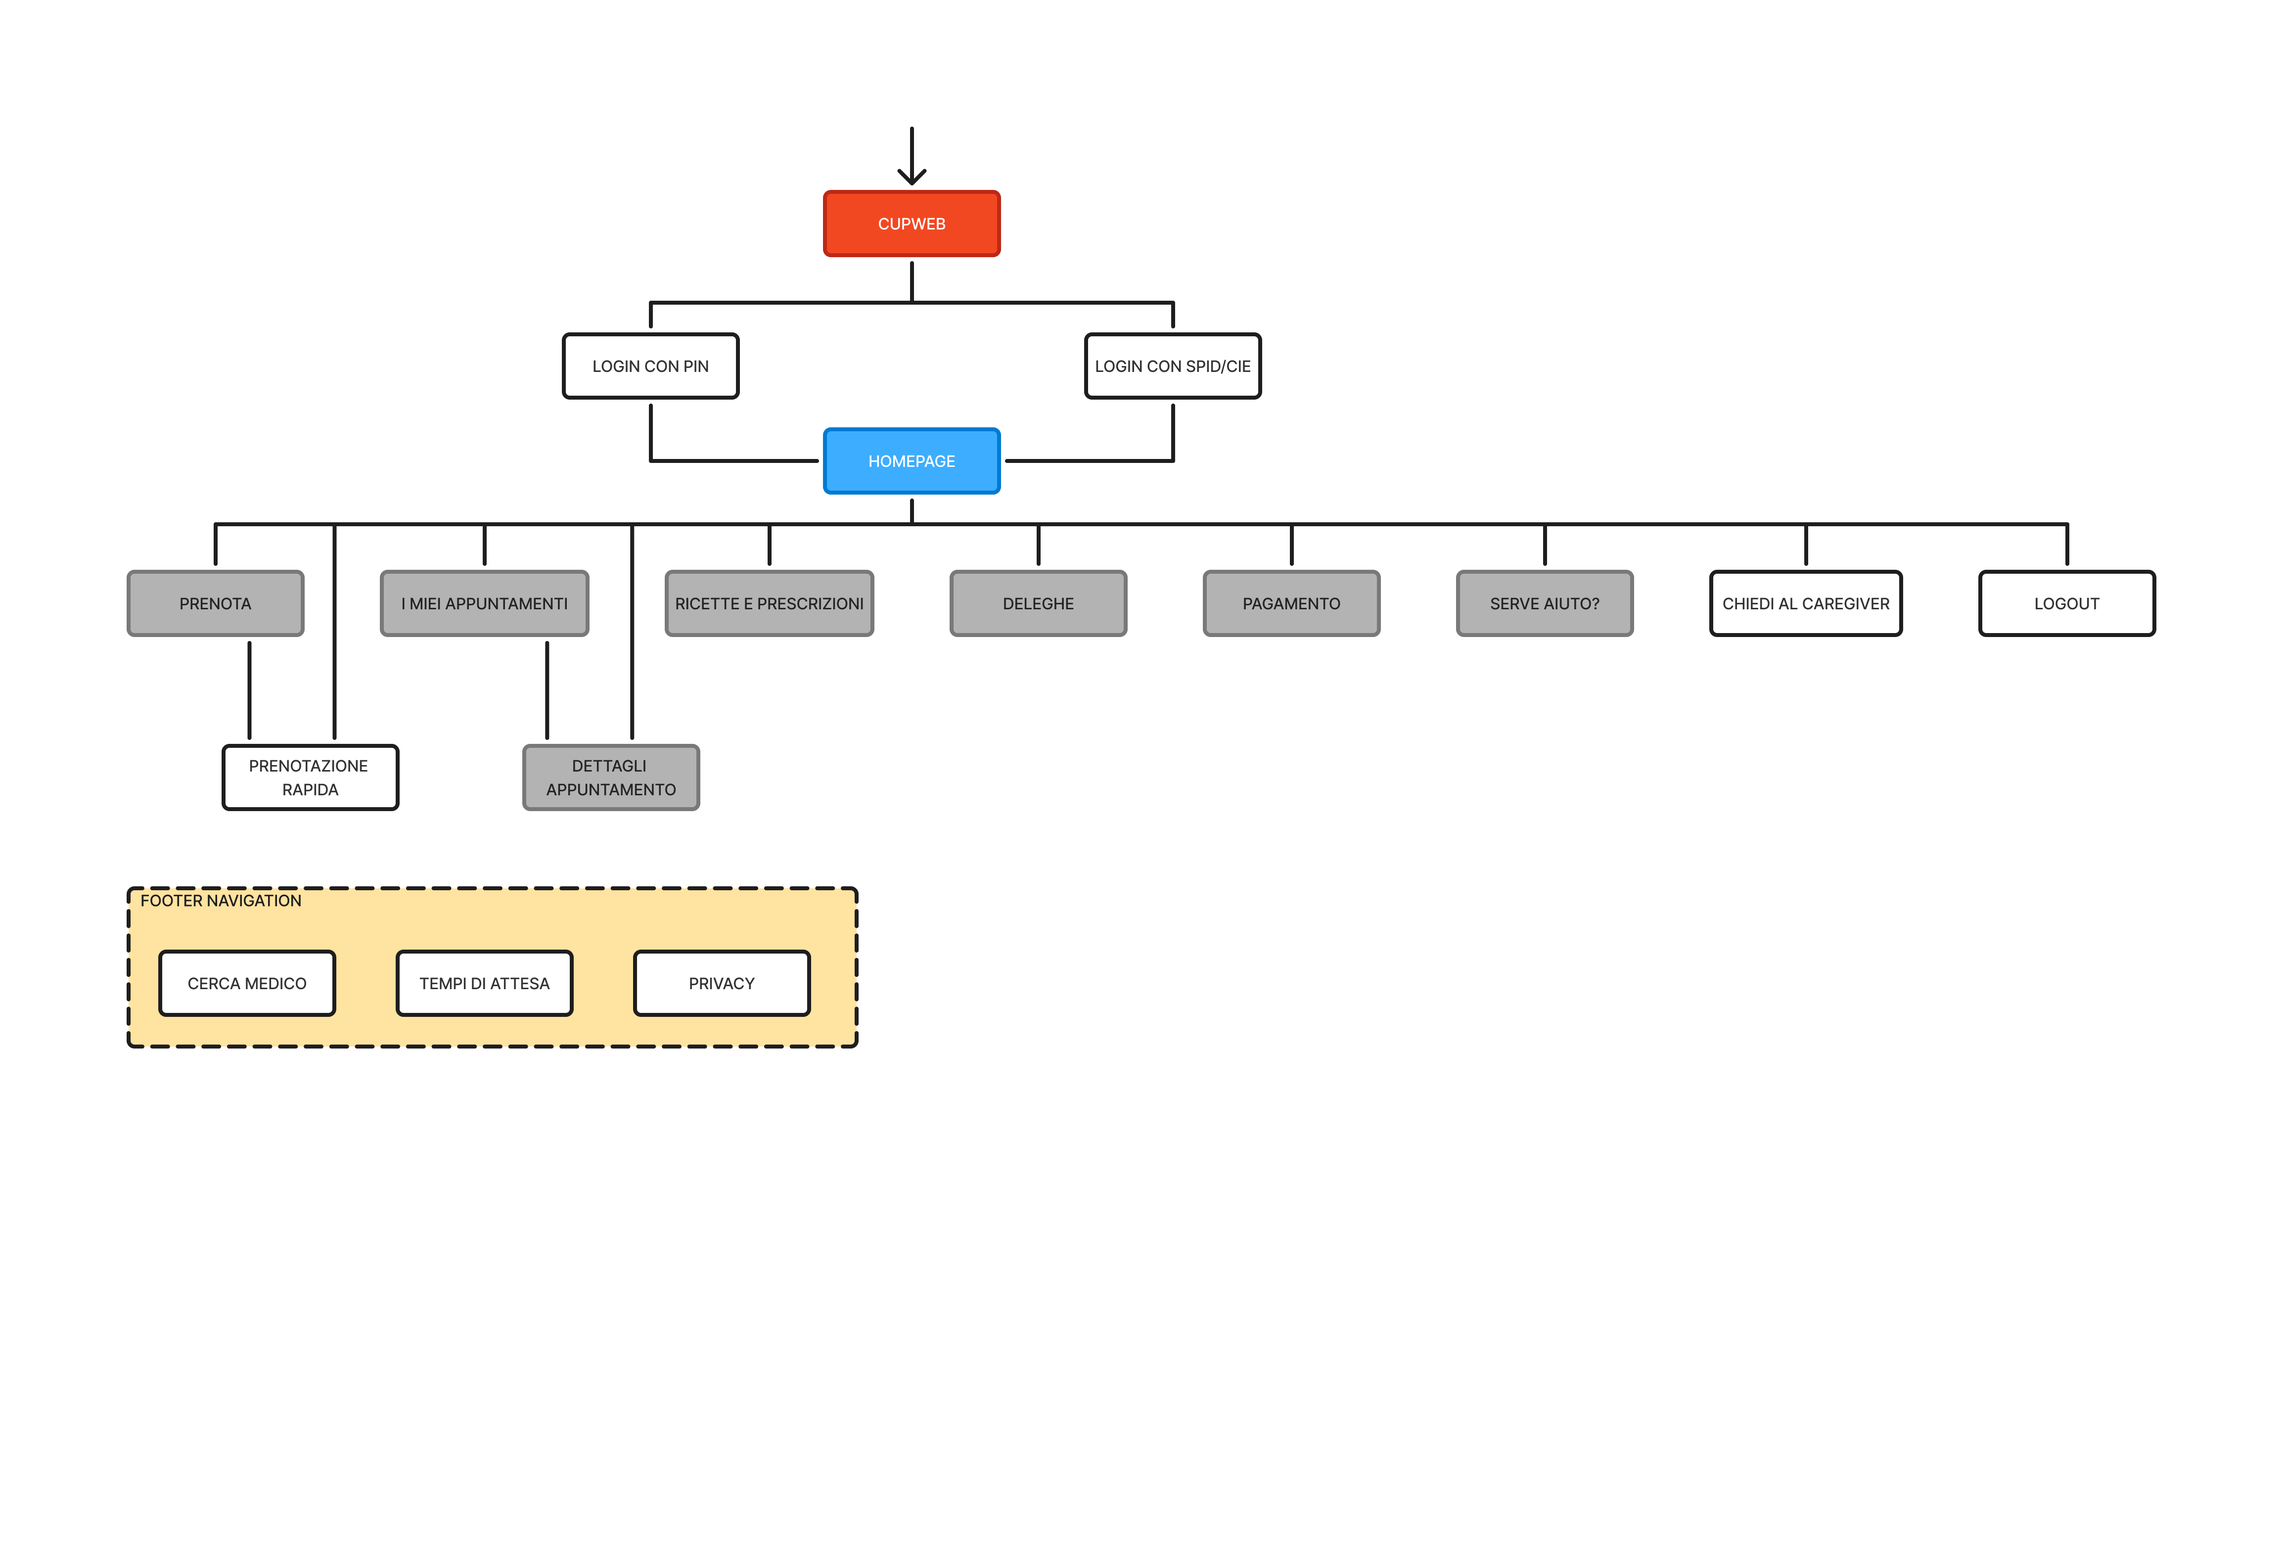
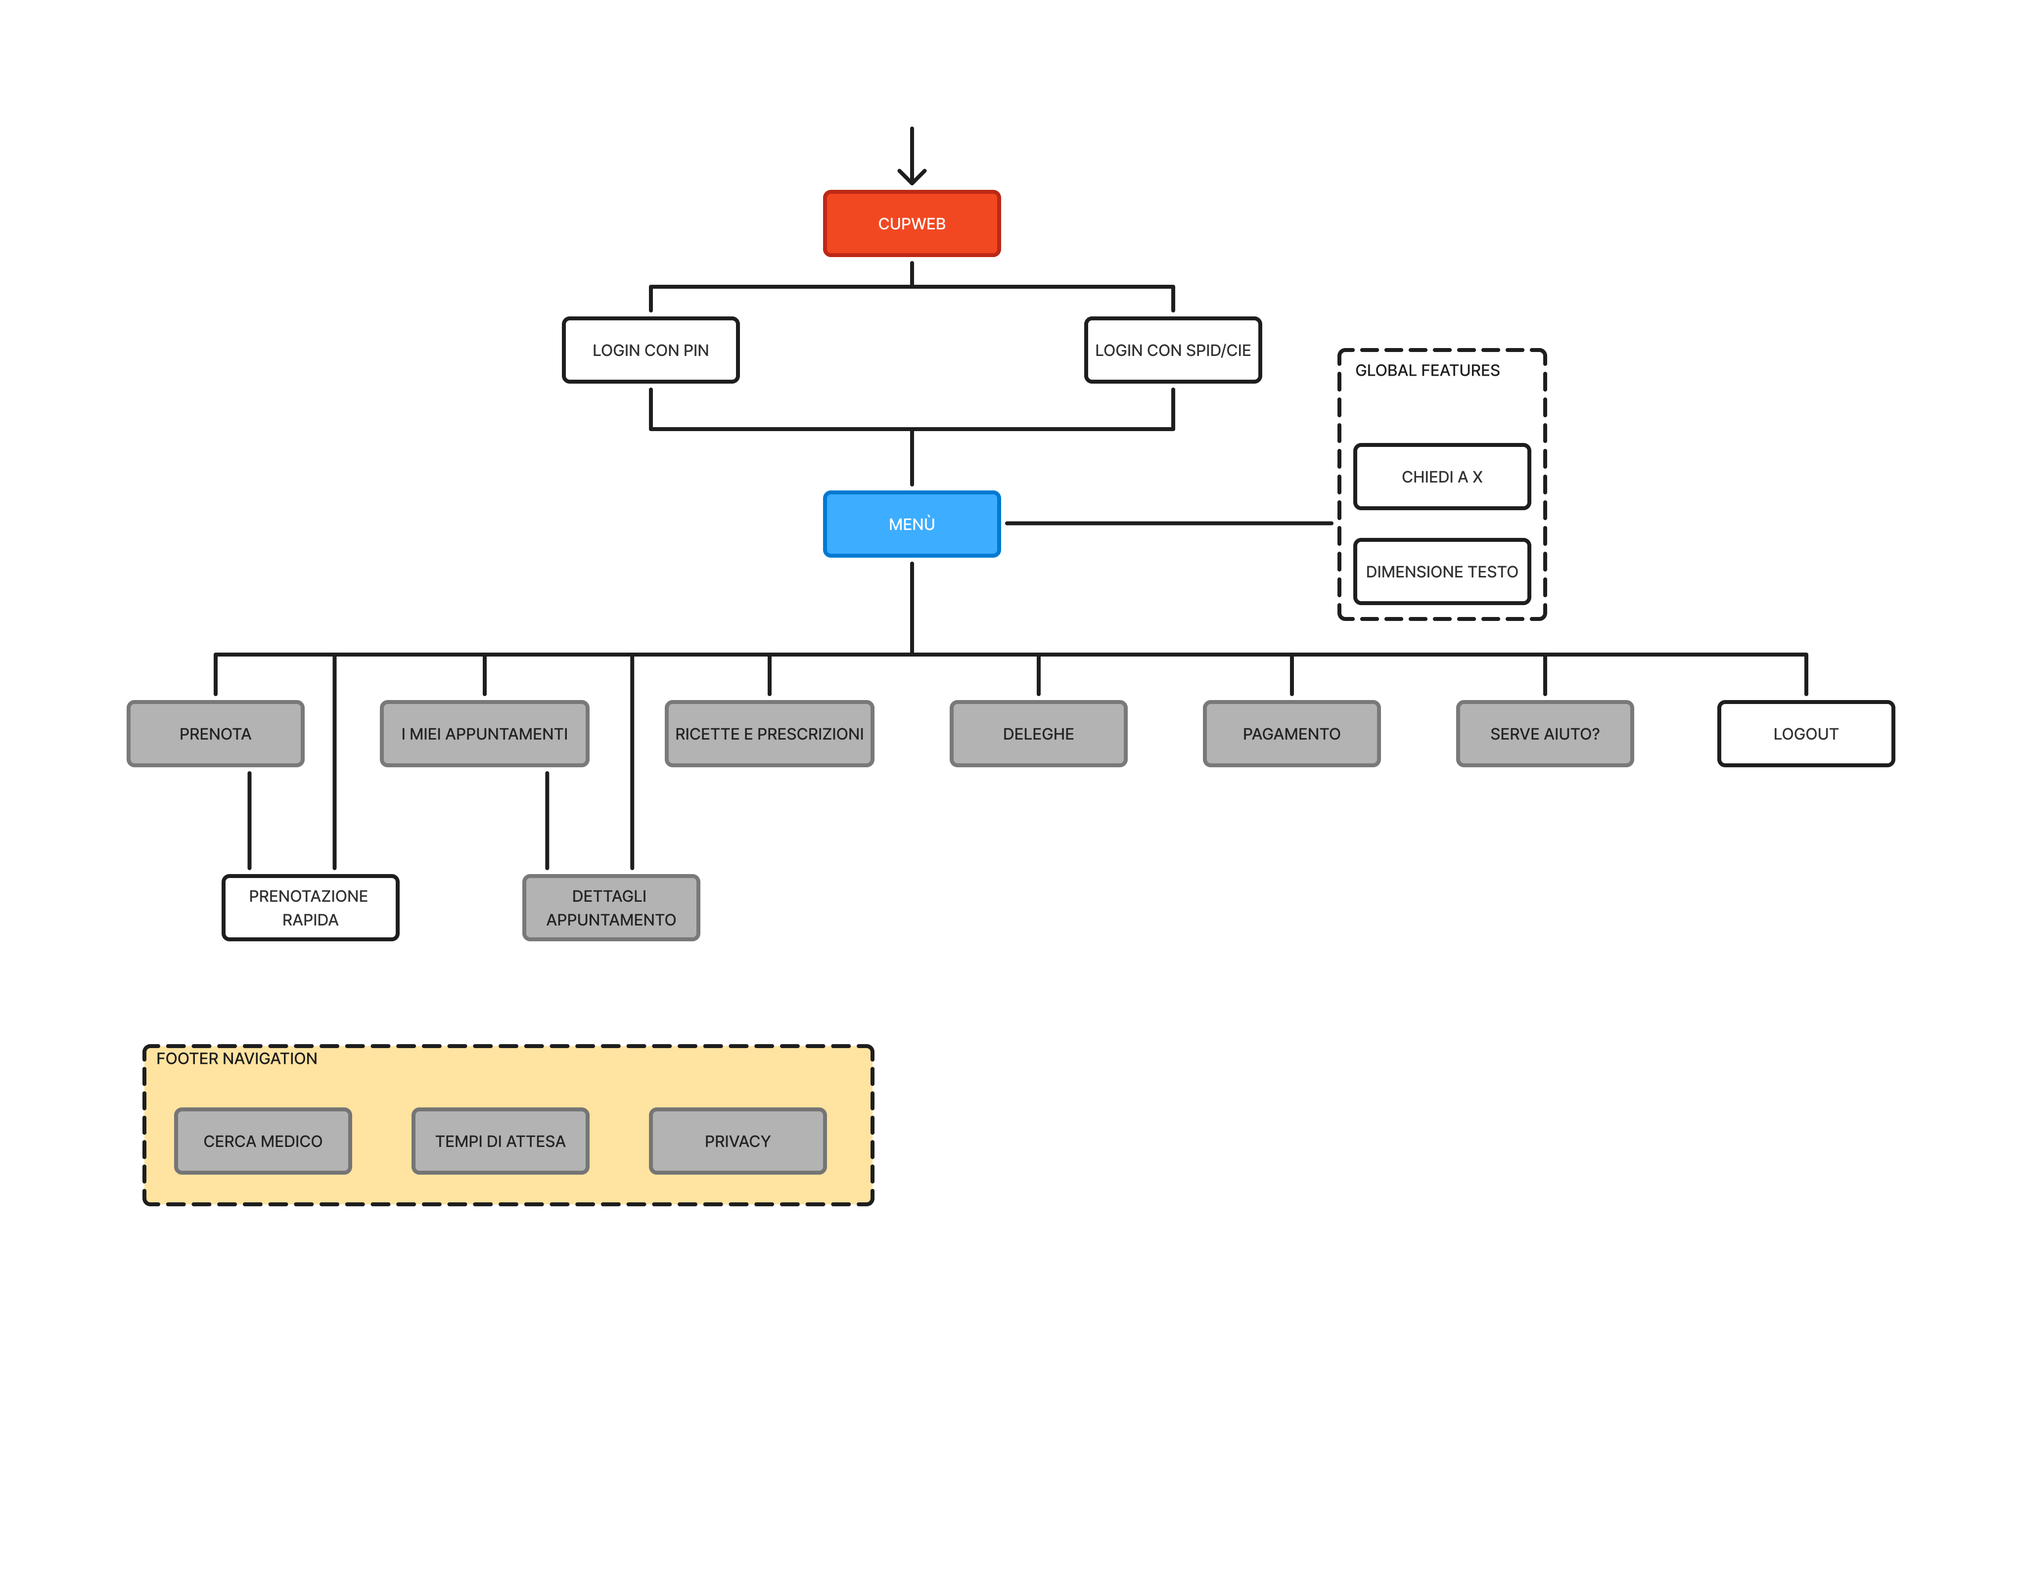
final update phase-c
Completamento fase c con aggiornamento dei blueprint finali, inserimento legenda e adattamento testo sezione blueprint

Changed region(s): [[0.0311, 0.0936, 0.932, 0.7803], [0.6524, 0.2185, 0.7456, 0.2497], [0.9009, 0.3433, 0.932, 0.3745]]

diff --git a/phase-c/phase-c.tex b/phase-c/phase-c.tex
@@ -128,20 +128,29 @@ Seguendo la tassonomia dell'architettura dell'informazione definita da Rosenfeld
 
 \subsection{Inquadramento metodologico}
 
-In coerenza con il piano della struttura (\emph{Structure Plane}) di Garrett~\cite{garrettElements2011} e Rosenfeld e Morville~\cite{rosenfeldMorville2002}, la configurazione logico-funzionale del portale è rappresentata attraverso \textbf{sei Structure Blueprints}. I diagrammi mappano la gerarchia delle pagine, le scorciatoie di flusso (come la prenotazione rapida dalla Home o dall'archivio ricette), i bivi decisionali o temporali e la commutazione di contesto nella modalità delegata:
+In coerenza con il piano della struttura (\emph{Structure Plane}) di Garrett~\cite{garrettElements2011} e Rosenfeld e Morville~\cite{rosenfeldMorville2002}, la configurazione logico-funzionale del portale è rappresentata attraverso \textbf{sei Structure Blueprints}. I diagrammi mappano la gerarchia delle pagine, le scorciatoie di flusso (come la prenotazione rapida dalla Home o dall'archivio ricette), i bivi decisionali e la commutazione di contesto nella modalità delegata:
 
 \begin{enumerate}
 \item \textbf{Blueprint 1 -- Accesso al portale e Homepage:} struttura d'ingresso e diramazione verso tutte le sezioni principali, di supporto e di piè di pagina;
 \item \textbf{Blueprint 2 -- Flusso di prenotazione:} percorso guidato con o senza ricetta fino alla conferma e alle azioni successive;
-\item \textbf{Blueprint 3 -- Gestione appuntamenti:} consultazione delle visite, spostamento data, pagamento e disdetta con recupero entro 10 minuti;
+\item \textbf{Blueprint 3 -- Gestione appuntamenti:} consultazione delle visite, spostamento data, pagamento e disdetta con recupero della visita;
 \item \textbf{Blueprint 4 -- Ricette e prescrizioni:} consultazione delle impegnative elettroniche e innesto diretto nella prenotazione;
-\item \textbf{Blueprint 5 -- Deleghe:} gestione degli assistiti (\emph{Chi assisto}) e delle proprie deleghe (\emph{Le mie deleghe});
+\item \textbf{Blueprint 5 -- Deleghe:} gestione degli assistiti e delle proprie deleghe;
 \item \textbf{Blueprint 6 -- Serve aiuto?:} salvataggio e ripresa della sessione tramite codice, assistenza scritta e numero verde.
 \end{enumerate}
 
+\subsubsection{Legenda dei Blueprint}
+
+La legenda (Figura~\ref{fig:bp-key}) riassume la notazione grafica adottata nei diagrammi: il rettangolo rosso indica la pagina di atterraggio iniziale (\emph{Landing page}), quello azzurro il menù principale della Homepage, i rettangoli grigi le singole pagine (o un insieme di pagine se sovrapposti) e quelli bianchi con bordo nero i componenti o le azioni interne alla pagina. I riquadri tratteggiati identificano le funzioni globali di testata e la navigazione del piè di pagina, mentre il bordo arancione segnala gli elementi attivi durante l'operatività in delega; infine, la freccia indica il punto di accesso e le linee continue i legami di contenimento e navigazione.
+
+\begin{center}
+\includegraphics[width=0.50\linewidth]{phase-c/blueprints/0-key.png}
+\captionof{figure}{Legenda dei simboli adottati negli Structure Blueprints.}\label{fig:bp-key}
+\end{center}
+
 \subsubsection{Blueprint 1: Accesso al portale e Architettura della Homepage}
 
-Il primo diagramma (Figura~\ref{fig:bp-01}) rappresenta la struttura generale del portale. All'ingresso l'utente incontra il bivio tra l'accesso rapido con PIN (per i dispositivi già registrati nei 30 giorni precedenti) e l'accesso con SPID o CIE. Entrambi i percorsi conducono alla Homepage, dalla quale si diramano le altre quattro aree principali (\emph{Prenota} con la scorciatoia di \emph{Prenotazione rapida}, \emph{I miei appuntamenti} con l'accesso diretto ai \emph{Dettagli appuntamento}, \emph{Ricette e prescrizioni}, \emph{Deleghe}), le funzioni trasversali (\emph{Pagamento}, \emph{Serve aiuto?}, \emph{Chiedi al caregiver} e \emph{Logout}) e la navigazione secondaria del piè di pagina (\emph{Cerca medico}, \emph{Tempi di attesa}, \emph{Privacy}).
+Il primo diagramma (Figura~\ref{fig:bp-01}) rappresenta la struttura generale del portale. All'ingresso l'utente incontra il bivio tra l'accesso rapido con PIN (per i dispositivi già registrati nei 30 giorni precedenti) e l'accesso con SPID o CIE. Entrambi i percorsi conducono al menù della Homepage, affiancato dalle funzioni globali (\emph{Chiedi a X} e regolazione della dimensione del testo), dal quale si diramano le sezioni principali (\emph{Prenota} con la scorciatoia di \emph{Prenotazione rapida}, \emph{I miei appuntamenti} con l'accesso diretto ai \emph{Dettagli appuntamento}, \emph{Ricette e prescrizioni}, \emph{Deleghe}), le voci trasversali (\emph{Pagamento}, \emph{Serve aiuto?} e \emph{Logout}) e la navigazione secondaria del piè di pagina (\emph{Cerca medico}, \emph{Tempi di attesa}, \emph{Privacy}).
 
 \begin{center}
 \includegraphics[width=0.95\linewidth]{phase-c/blueprints/1-LoginHomePage.png}
@@ -152,10 +161,10 @@ Il primo diagramma (Figura~\ref{fig:bp-01}) rappresenta la struttura generale de
 
 Il secondo diagramma (Figura~\ref{fig:bp-02}) modella il percorso di prenotazione. Dalla sezione \emph{Prenota} il flusso si divide in base al possesso dell'impegnativa:
 \begin{itemize}
-\item Con ricetta medica, l'utente seleziona l'impegnativa disponibile e passa alla scelta del canale e del costo della prestazione; questo stesso punto è raggiungibile direttamente dalla Homepage tramite la scorciatoia di \emph{Prenotazione rapida}, saltando il primo passaggio;
-\item Senza ricetta, l'utente seleziona la prestazione desiderata tra quelle ad accesso diretto o in libera professione.
+\item Con ricetta medica, l'utente seleziona l'impegnativa disponibile e passa alla scelta del regime della prestazione; questo stesso punto è raggiungibile direttamente dalla Homepage tramite la scorciatoia di \emph{Prenotazione rapida}, saltando il primo passaggio;
+\item Senza ricetta, l'utente seleziona la prestazione desiderata.
 \end{itemize}
-I due rami convergono nella sequenza lineare composta da scelta dell'ospedale, scelta di data e ora, riepilogo e conferma finale della prenotazione. Dalla schermata di conferma si diramano cinque azioni: stampa del promemoria, invio via SMS, invio dei dettagli al caregiver, aggiunta al calendario e gestione del pagamento (paga ora online oppure scarica il bollettino).
+I due rami convergono nella sequenza lineare composta da scelta della sede, scelta di data e ora, riepilogo e conferma finale della prenotazione. Dalla schermata di conferma si diramano cinque azioni: stampa del promemoria, invio via SMS, invio dei dettagli al caregiver, aggiunta al calendario e gestione del pagamento (paga ora online con stampa della ricevuta oppure scarica il bollettino).
 
 \begin{center}
 \includegraphics[width=0.95\linewidth]{phase-c/blueprints/2-Prenotazione.png}
@@ -164,53 +173,54 @@ I due rami convergono nella sequenza lineare composta da scelta dell'ospedale, s
 
 \subsubsection{Blueprint 3: Gestione ``I miei appuntamenti'', Spostamento e Disdetta}
 
-Il terzo diagramma (Figura~\ref{fig:bp-03}) illustra la gestione degli appuntamenti. Dall'elenco delle visite in programma, l'apertura dei dettagli di un appuntamento mette a disposizione cinque rami operativi:
+Il terzo diagramma (Figura~\ref{fig:bp-03}) illustra la gestione degli appuntamenti. Dalla sezione \emph{I miei appuntamenti} è possibile ripristinare una visita appena cancellata (\emph{Recupero disdetta visita}) oppure aprire i dettagli di un appuntamento, che mettono a disposizione cinque rami operativi:
 \begin{enumerate}
 \item \textbf{Sposta appuntamento:} consente di scegliere una nuova data e ora mantenendo invariata la prestazione, passando poi per riepilogo e conferma;
-\item \textbf{Disdici appuntamento:} richiede la conferma di cancellazione tramite finestra modale e attiva la fase di recupero della disdetta, regolata da una condizione temporale: entro 10 minuti l'utente può annullare la disdetta riportando la visita allo stato confermato, mentre dopo 10 minuti subentra la scadenza definitiva;
-\item \textbf{Pagamento:} se non ancora effettuato, permette di pagare tramite pagoPA (online o scaricando il bollettino); se già effettuato, consente di stampare la ricevuta;
+\item \textbf{Disdici appuntamento:} permette di annullare la prenotazione;
+\item \textbf{Pagamento:} se già effettuato, consente di stampare la ricevuta; se non ancora effettuato, permette di pagare ora (con stampa della ricevuta) o di scaricare il bollettino;
 \item \textbf{Stampa dettagli} e \textbf{Torna all'elenco} per la gestione documentale e la navigazione di ritorno.
 \end{enumerate}
 
 \begin{center}
-\includegraphics[width=0.96\linewidth]{phase-c/blueprints/3-AppuntamentiSemplificato.png}
-\captionof{figure}{Blueprint 3: Flusso ``I miei appuntamenti'' con spostamento data, pagamento e disdetta dotata di finestra di recupero entro 10 minuti.}\label{fig:bp-03}
+\includegraphics[width=0.96\linewidth]{phase-c/blueprints/3-Appuntamenti.png}
+\captionof{figure}{Blueprint 3: Flusso ``I miei appuntamenti'' con recupero disdetta, spostamento data e gestione del pagamento.}\label{fig:bp-03}
 \end{center}
 
 \subsubsection{Blueprint 4: Archivio ``Ricette e prescrizioni''}
 
-Il quarto diagramma (Figura~\ref{fig:bp-04}) descrive la sezione dedicata alle prescrizioni mediche. L'elenco principale è suddiviso nelle due viste \emph{Da prenotare} e \emph{Ricette passate}. Selezionando l'azione di prenotazione da una ricetta attiva, il sistema pre-carica i dati dell'impegnativa e immette l'utente direttamente nel passaggio di scelta del canale e del costo della prestazione, proseguendo poi lungo il normale flusso di scelta dell'ospedale, data e ora, riepilogo e conferma.
+Il quarto diagramma (Figura~\ref{fig:bp-04}) descrive la sezione dedicata alle prescrizioni mediche. L'elenco principale è suddiviso nelle due viste \emph{Ricette da prenotare} e \emph{Ricette passate}. Selezionando l'azione di prenotazione da una ricetta attiva, il sistema pre-carica i dati dell'impegnativa e immette l'utente direttamente nel passaggio di scelta del regime, proseguendo poi lungo il normale flusso di scelta della sede, data e ora, riepilogo, conferma e azioni successive.
 
 \begin{center}
 \includegraphics[width=0.92\linewidth]{phase-c/blueprints/4-RicettePrescrizioni.png}
-\captionof{figure}{Blueprint 4: Sezione ``Ricette e prescrizioni'' con innesto diretto dalla prescrizione allo step di scelta del canale e del costo.}\label{fig:bp-04}
+\captionof{figure}{Blueprint 4: Sezione ``Ricette e prescrizioni'' con innesto diretto dalla prescrizione alla scelta del regime.}\label{fig:bp-04}
 \end{center}
 
 \subsubsection{Blueprint 5: Gestione ``Deleghe''}
 
 Il quinto diagramma (Figura~\ref{fig:bp-05}) rappresenta il funzionamento delle deleghe familiari, articolato in due percorsi:
 \begin{itemize}
-\item \textbf{Chi assisto:} mostra l'elenco dei familiari assistiti. Selezionando un assistito, il caregiver accede alla Homepage riferita al suo profilo e può svolgere le operazioni consentite dalla delega ricevuta. La concessione, modifica e revoca delle deleghe rimangono riservate all'interessato sul proprio profilo. Il caregiver può concludere la sessione delegata tramite il comando \emph{Termina delega};
-\item \textbf{Le mie deleghe:} mostra l'elenco dei caregiver autorizzati dall'utente e permette di aggiungere e confermare una nuova delega.
+\item \textbf{Assistiti:} permette al caregiver di operare per conto di un familiare, accedendo al menù dell'assistito per svolgere le operazioni consentite dalla delega e potendo chiudere la sessione delegata tramite il comando \emph{Termina delega};
+\item \textbf{Le mie deleghe:} consente all'utente di aggiungere una nuova delega per autorizzare un caregiver sul proprio profilo.
 \end{itemize}
 
 \begin{center}
-\includegraphics[width=0.95\linewidth]{phase-c/blueprints/5-Delega.png}
-\captionof{figure}{Blueprint 5: Sezione ``Deleghe'' articolata tra ``Chi assisto'' (ingresso nella Homepage dell'assistito) e ``Le mie deleghe''.}\label{fig:bp-05}
+\includegraphics[width=0.90\linewidth]{phase-c/blueprints/5-Delega.png}
+\captionof{figure}{Blueprint 5: Sezione ``Deleghe'' articolata tra ``Assistiti'' (ingresso nel menù dell'assistito) e ``Le mie deleghe''.}\label{fig:bp-05}
 \end{center}
 
 \subsubsection{Blueprint 6: Sistema di Supporto ``Serve aiuto?''}
 
-Il sesto diagramma (Figura~\ref{fig:bp-06}) illustra il modulo di assistenza contestuale, suddiviso in tre blocchi funzionali:
+Il sesto diagramma (Figura~\ref{fig:bp-06}) illustra il modulo di assistenza contestuale, articolato in quattro funzioni:
 \begin{enumerate}
-\item \textbf{Salva il tuo punto:} se l'utente non possiede ancora un codice, può generare un codice Salva-Sessione per congelare la pratica; se possiede già un codice, può inserirlo per riprendere direttamente la procedura di prenotazione dal punto interrotto;
-\item \textbf{Chiedi all'assistente:} consente di inviare una domanda scritta e visualizzare la relativa risposta;
+\item \textbf{Recupera sessione da codice:} consente di inserire un codice salvato per riprendere direttamente l'ultima sessione interrotta;
+\item \textbf{Genera codice Salva-Sessione:} permette di congelare la pratica corrente tramite codice;
+\item \textbf{Chiedi all'assistente:} consente di richiedere supporto tramite chat testuale;
 \item \textbf{Numero verde:} fornisce i riferimenti per il supporto telefonico regionale.
 \end{enumerate}
 
 \begin{center}
 \includegraphics[width=0.92\linewidth]{phase-c/blueprints/6-ServeAiuto?.png}
-\captionof{figure}{Blueprint 6: Struttura del modulo ``Serve aiuto?'' con gestione del codice Salva-Sessione, assistente testuale e Numero Verde.}\label{fig:bp-06}
+\captionof{figure}{Blueprint 6: Struttura del modulo ``Serve aiuto?'' con recupero e generazione del codice Salva-Sessione, assistente testuale e Numero Verde.}\label{fig:bp-06}
 \end{center}
 
 % --- Card 04 ----------------------------------------------------
